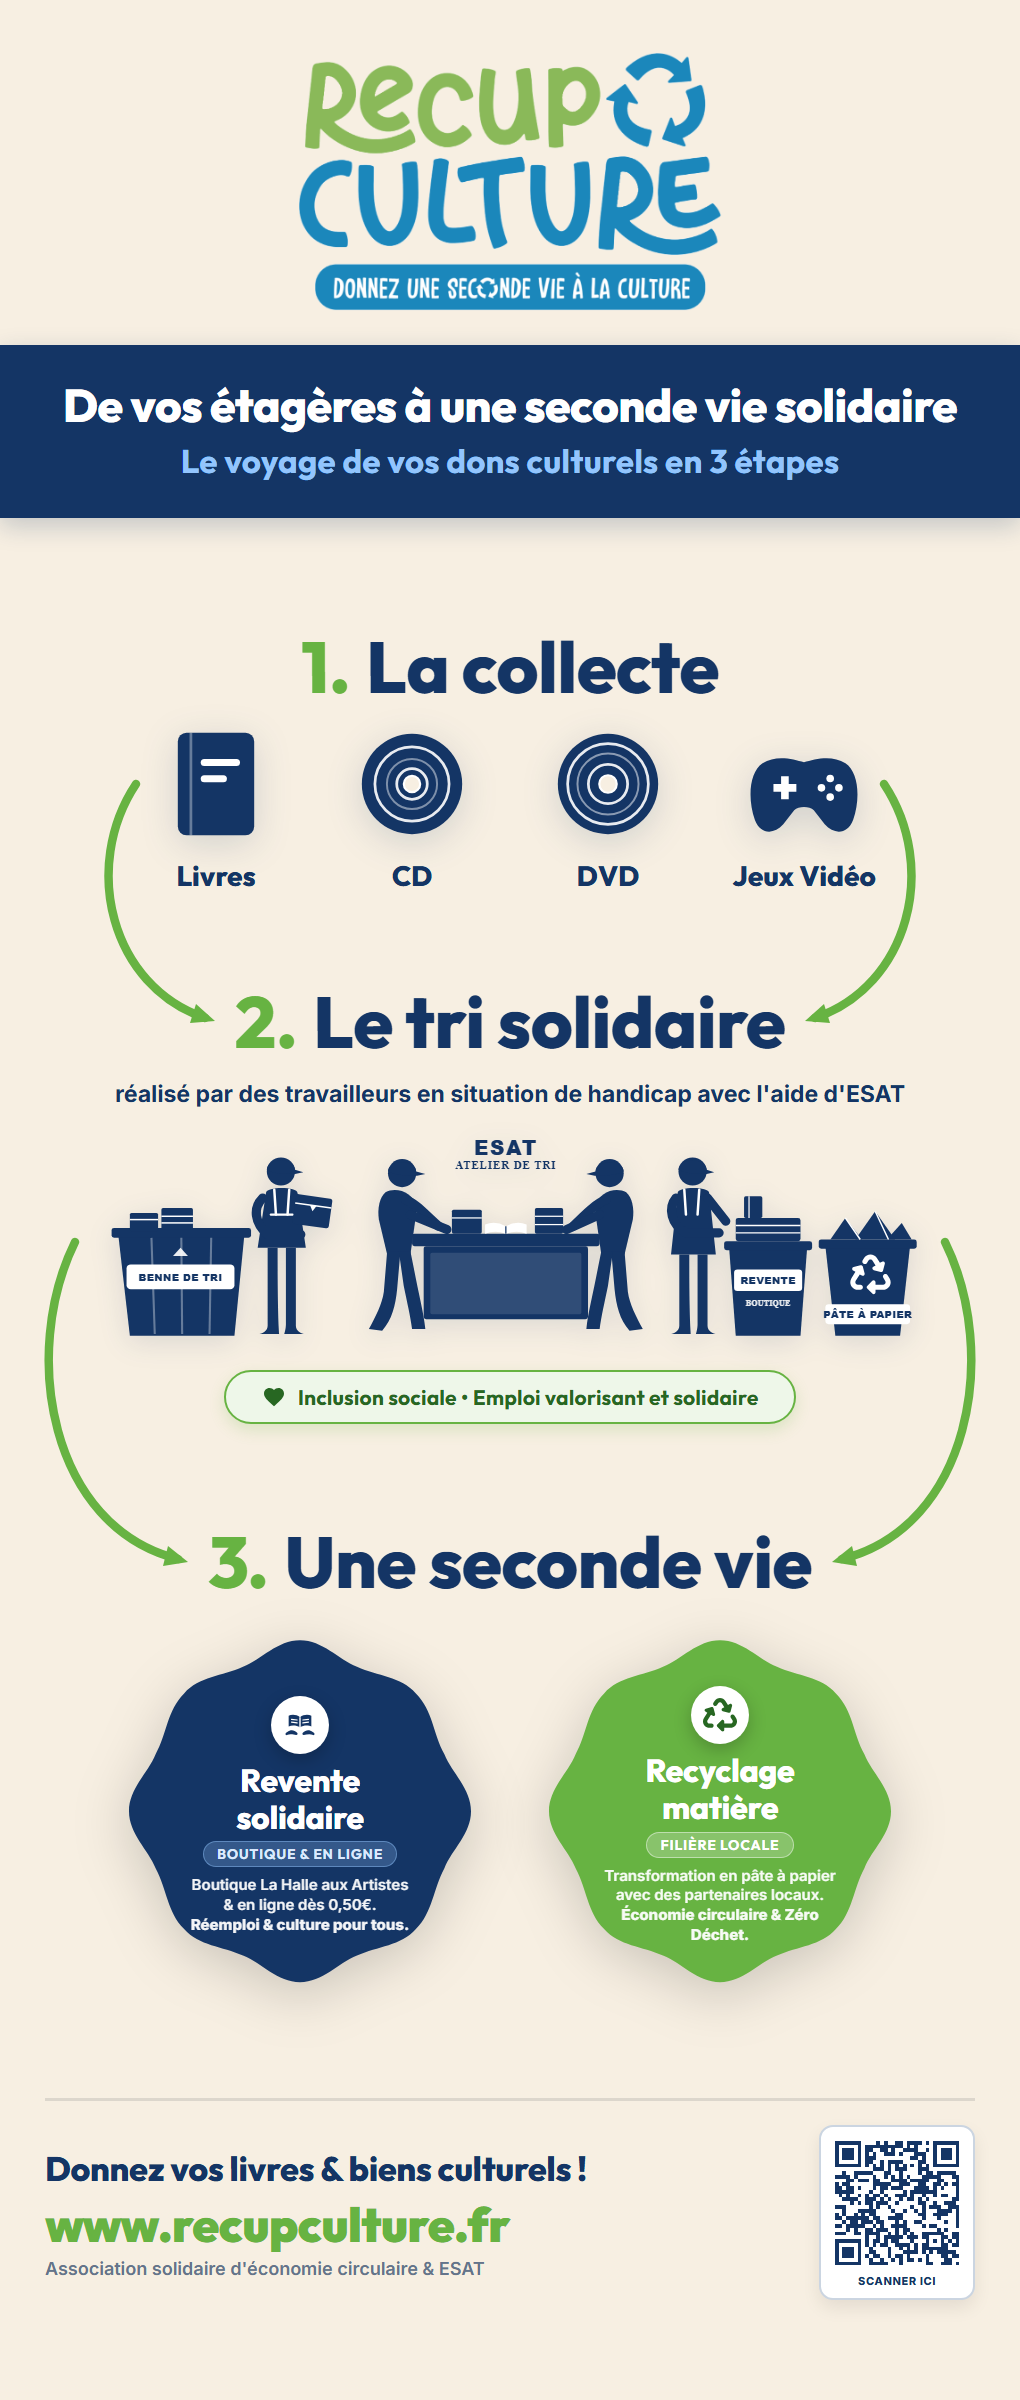
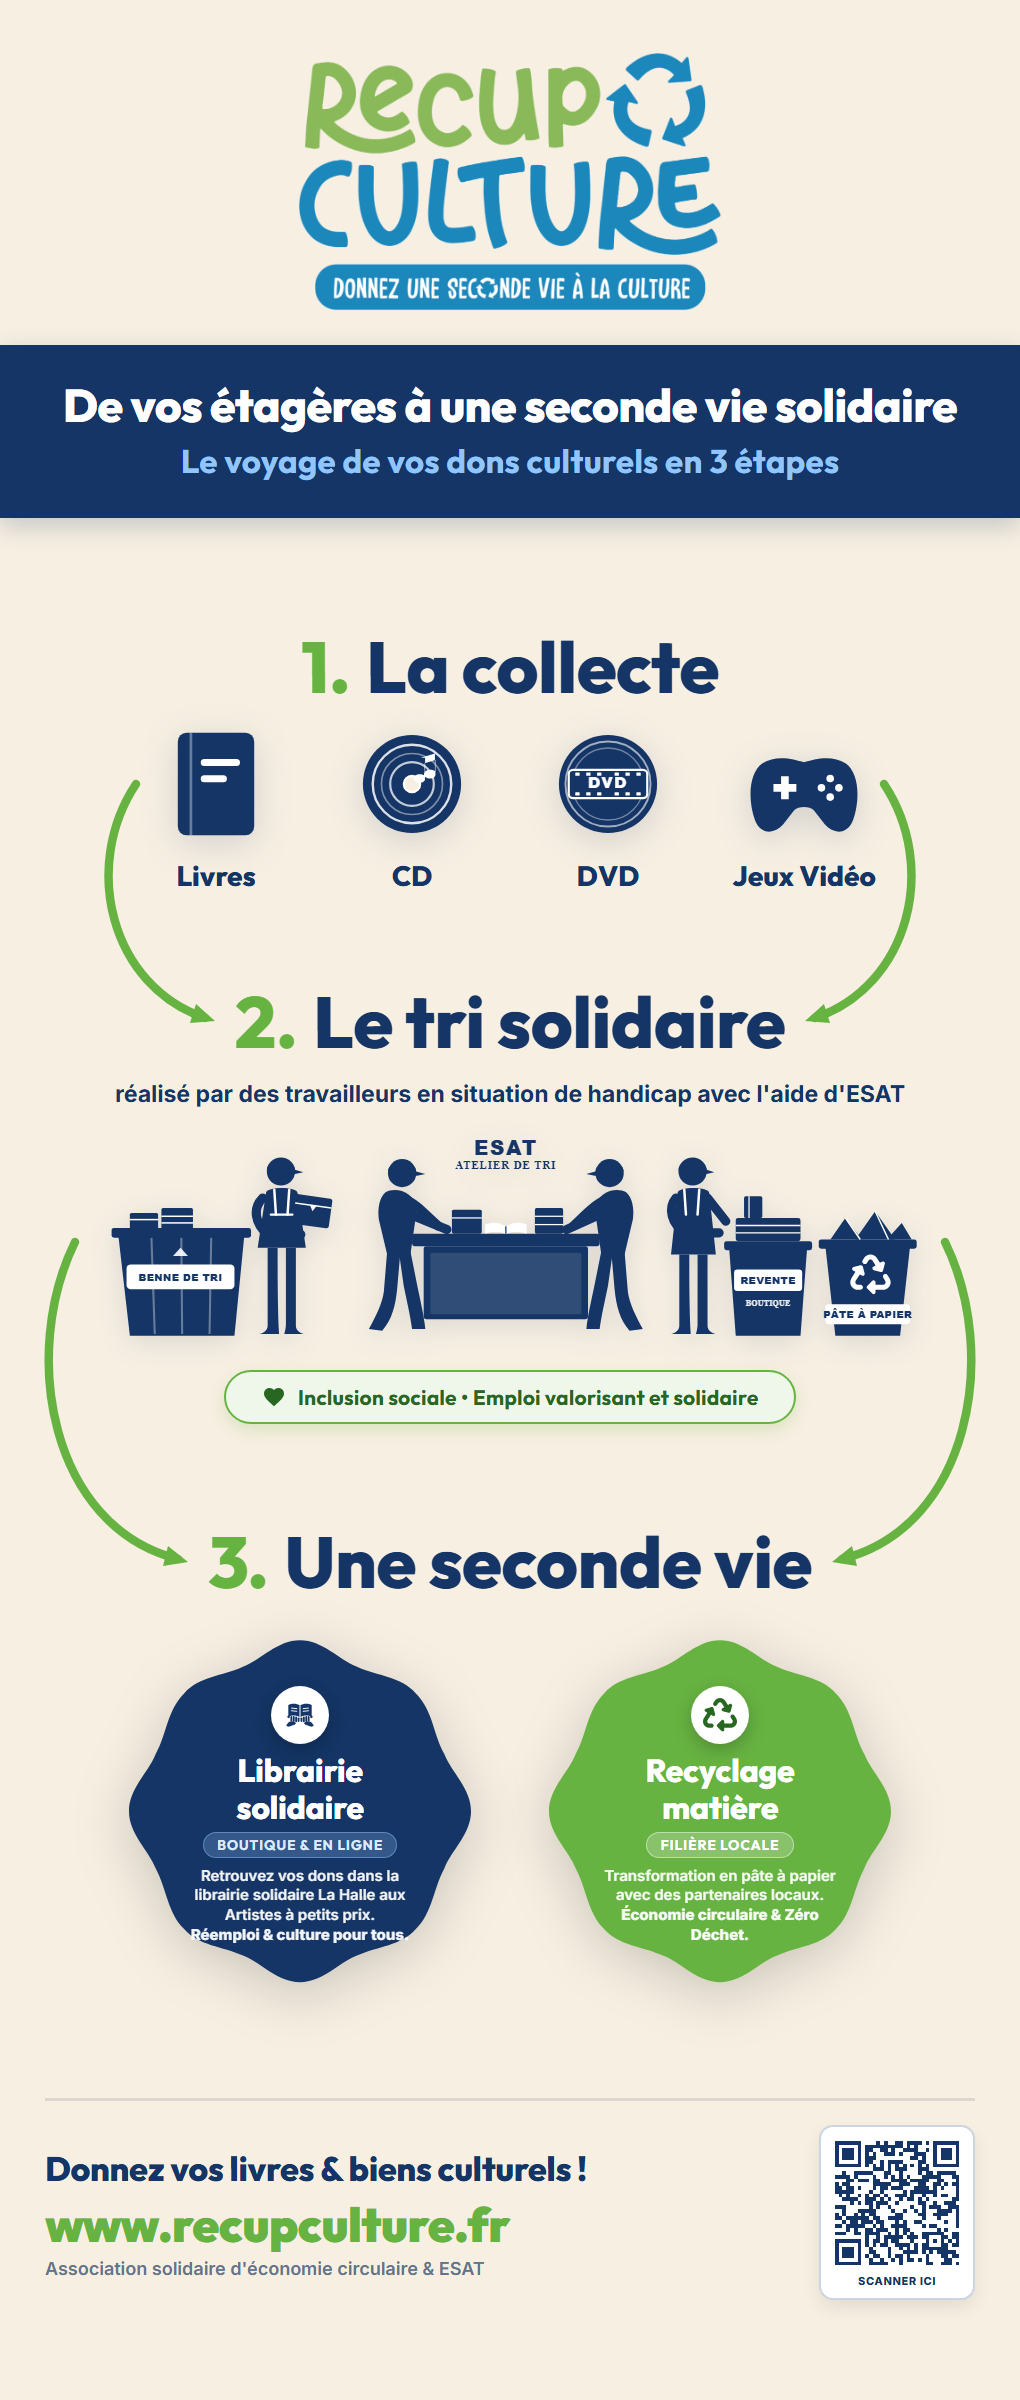
feat(kakemono): differenciation CD/DVD et mise a jour de la Librairie solidaire (titre, texte et icone mains+livre)

Changed region(s): [[0.1824, 0.6875, 0.3951, 0.8125], [0.5471, 0.2812, 0.6382, 0.3438], [0.3647, 0.3125, 0.4559, 0.3438]]

diff --git a/communication/kakemono/kakemono-1-art.html b/communication/kakemono/kakemono-1-art.html
@@ -473,31 +473,51 @@
           <span>Livres</span>
         </div>
 
-        <!-- 2. CD -->
+        <!-- 2. CD (Audio) -->
         <div class="collect-item">
           <div class="collect-icon">
             <svg viewBox="0 0 100 110">
-              <!-- Disque CD bleu marine #143565 avec sillons concentriques blancs -->
-              <circle cx="50" cy="55" r="46" fill="#143565"/>
-              <circle cx="50" cy="55" r="34" fill="none" stroke="#ffffff" stroke-width="2.5" opacity="0.9"/>
-              <circle cx="50" cy="55" r="23" fill="none" stroke="#ffffff" stroke-width="1.8" opacity="0.45"/>
-              <circle cx="50" cy="55" r="14" fill="none" stroke="#ffffff" stroke-width="2.5" opacity="0.9"/>
+              <!-- Disque CD audio bleu marine #143565 -->
+              <circle cx="50" cy="55" r="45" fill="#143565"/>
+              <!-- Sillons audio fins -->
+              <circle cx="50" cy="55" r="36" fill="none" stroke="#ffffff" stroke-width="2.2" opacity="0.85"/>
+              <circle cx="50" cy="55" r="28" fill="none" stroke="#ffffff" stroke-width="1.5" opacity="0.45"/>
+              <circle cx="50" cy="55" r="20" fill="none" stroke="#ffffff" stroke-width="2" opacity="0.75"/>
+              <!-- Trou central -->
               <circle cx="50" cy="55" r="7.5" fill="#f7efe2" stroke="#ffffff" stroke-width="2"/>
+              <!-- Note de musique audio blanche -->
+              <path d="M 58 31 L 71 27 L 71 43 C 69.8 42.4 68.2 42 66.5 42 C 63.5 42 61 43.8 61 46 C 61 48.2 63.5 50 66.5 50 C 69.3 50 71.5 48.4 71.5 46.2 L 71.5 33 L 61.5 36 L 61.5 47 C 60.3 46.4 58.7 46 57 46 C 54 46 51.5 47.8 51.5 50 C 51.5 52.2 54 54 57 54 C 59.8 54 62 52.4 62 50.2 L 62 31 Z" fill="#ffffff"/>
             </svg>
           </div>
           <span>CD</span>
         </div>
 
-        <!-- 3. DVD -->
+        <!-- 3. DVD (Vidéo) -->
         <div class="collect-item">
           <div class="collect-icon">
             <svg viewBox="0 0 100 110">
-              <!-- Disque DVD bleu marine #143565 avec sillons vidéo blancs -->
-              <circle cx="50" cy="55" r="46" fill="#143565"/>
-              <circle cx="50" cy="55" r="37" fill="none" stroke="#ffffff" stroke-width="2.5" opacity="0.9"/>
-              <circle cx="50" cy="55" r="28" fill="none" stroke="#ffffff" stroke-width="1.8" opacity="0.5"/>
-              <circle cx="50" cy="55" r="18" fill="none" stroke="#ffffff" stroke-width="2.5" opacity="0.9"/>
-              <circle cx="50" cy="55" r="8" fill="#f7efe2" stroke="#ffffff" stroke-width="2"/>
+              <!-- Disque DVD vidéo bleu marine #143565 -->
+              <circle cx="50" cy="55" r="45" fill="#143565"/>
+              <circle cx="50" cy="55" r="39" fill="none" stroke="#ffffff" stroke-width="1.8" opacity="0.6"/>
+              <circle cx="50" cy="55" r="33" fill="none" stroke="#ffffff" stroke-width="1.2" opacity="0.4"/>
+              <!-- Bandeau pellicule cinéma au centre -->
+              <rect x="14" y="42" width="72" height="26" rx="4" fill="#143565" stroke="#ffffff" stroke-width="2"/>
+              <!-- Perforations pellicule cinéma haut -->
+              <rect x="20" y="44.5" width="4" height="3" rx="0.5" fill="#ffffff"/>
+              <rect x="30" y="44.5" width="4" height="3" rx="0.5" fill="#ffffff"/>
+              <rect x="40" y="44.5" width="4" height="3" rx="0.5" fill="#ffffff"/>
+              <rect x="56" y="44.5" width="4" height="3" rx="0.5" fill="#ffffff"/>
+              <rect x="66" y="44.5" width="4" height="3" rx="0.5" fill="#ffffff"/>
+              <rect x="76" y="44.5" width="4" height="3" rx="0.5" fill="#ffffff"/>
+              <!-- Perforations pellicule cinéma bas -->
+              <rect x="20" y="62.5" width="4" height="3" rx="0.5" fill="#ffffff"/>
+              <rect x="30" y="62.5" width="4" height="3" rx="0.5" fill="#ffffff"/>
+              <rect x="40" y="62.5" width="4" height="3" rx="0.5" fill="#ffffff"/>
+              <rect x="56" y="62.5" width="4" height="3" rx="0.5" fill="#ffffff"/>
+              <rect x="66" y="62.5" width="4" height="3" rx="0.5" fill="#ffffff"/>
+              <rect x="76" y="62.5" width="4" height="3" rx="0.5" fill="#ffffff"/>
+              <!-- Lettrage "DVD" majuscule gras blanc bien visible -->
+              <text x="50" y="59" text-anchor="middle" font-family="'Outfit', sans-serif" font-size="14" font-weight="900" fill="#ffffff" letter-spacing="1.5px">DVD</text>
             </svg>
           </div>
           <span>DVD</span>
@@ -547,33 +567,43 @@
       <h3 class="step-title"><span class="num-badge">3.</span> Une seconde vie</h3>
 
       <div class="macarons-row">
-        <!-- Macaron 1 (Gauche) : Revente Solidaire -->
+        <!-- Macaron 1 (Gauche) : Librairie Solidaire -->
         <div class="macaron-card">
           <svg class="macaron-bg" viewBox="0 0 200 200">
             <path d="M 100 8 C 112 8, 120 18, 130 22 C 141 27, 153 27, 161 36 C 170 45, 170 57, 176 68 C 180 78, 190 86, 190 98 C 190 110, 180 118, 176 128 C 170 139, 170 151, 161 160 C 153 169, 141 169, 130 174 C 120 178, 112 188, 100 188 C 88 188, 80 178, 70 174 C 59 169, 47 169, 39 160 C 30 151, 30 139, 24 128 C 20 118, 10 110, 10 98 C 10 86, 20 78, 24 68 C 30 57, 30 45, 39 36 C 47 27, 59 27, 70 22 C 80 18, 88 8, 100 8 Z" fill="#143565" />
           </svg>
           <div class="macaron-content">
             <div class="macaron-icon-wrap">
-              <!-- Option 4 : Deux mains ouvertes transmettant / soutenant un livre -->
-              <svg viewBox="0 0 48 48">
-                <!-- Livre ouvert stylisé au centre -->
-                <path d="M 24 13 C 19 9, 12 9, 8 11 L 8 26 C 12 24, 19 24, 24 27 C 29 24, 36 24, 40 26 L 40 11 C 36 9, 29 9, 24 13 Z" fill="#143565"/>
-                <line x1="24" y1="13" x2="24" y2="27" stroke="#ffffff" stroke-width="2"/>
-                <!-- Pages / lignes blanches -->
-                <line x1="12" y1="16" x2="20" y2="17" stroke="#ffffff" stroke-width="1.6" stroke-linecap="round"/>
-                <line x1="12" y1="20" x2="20" y2="21" stroke="#ffffff" stroke-width="1.6" stroke-linecap="round"/>
-                <line x1="28" y1="17" x2="36" y2="16" stroke="#ffffff" stroke-width="1.6" stroke-linecap="round"/>
-                <line x1="28" y1="21" x2="36" y2="20" stroke="#ffffff" stroke-width="1.6" stroke-linecap="round"/>
-                <!-- Mains ouvertes en coupe en dessous -->
-                <path d="M 6 34 C 11 30, 16 31, 20 35 C 21.2 36.2, 20.5 38.5, 18.5 38.2 C 15 37.8, 10.5 36.2, 5.5 38.2 C 4 38.8, 3 37.2, 3.8 35.8 C 4.5 34.8, 5.2 34.4, 6 34 Z" fill="#143565"/>
-                <path d="M 42 34 C 37 30, 32 31, 28 35 C 26.8 36.2, 27.5 38.5, 29.5 38.2 C 33 37.8, 37.5 36.2, 42.5 38.2 C 44 38.8, 45 37.2, 44.2 35.8 C 43.5 34.8, 42.8 34.4, 42 34 Z" fill="#143565"/>
+              <!-- Deux mains bien identifiables tenant un livre ouvert -->
+              <svg viewBox="0 0 64 64">
+                <!-- Livre ouvert central -->
+                <path d="M 32 14 C 26 10, 16 10, 10 13 L 10 35 C 16 32, 26 32, 32 36 C 38 32, 48 32, 54 35 L 54 13 C 48 10, 38 10, 32 14 Z" fill="#143565"/>
+                <line x1="32" y1="14" x2="32" y2="36" stroke="#ffffff" stroke-width="2"/>
+                <!-- Pages intérieures -->
+                <line x1="16" y1="19" x2="26" y2="20" stroke="#ffffff" stroke-width="1.8" stroke-linecap="round"/>
+                <line x1="16" y1="24" x2="26" y2="25" stroke="#ffffff" stroke-width="1.8" stroke-linecap="round"/>
+                <line x1="38" y1="20" x2="48" y2="19" stroke="#ffffff" stroke-width="1.8" stroke-linecap="round"/>
+                <line x1="38" y1="25" x2="48" y2="24" stroke="#ffffff" stroke-width="1.8" stroke-linecap="round"/>
+                <!-- Main Gauche (paume et doigts bien visibles sous le livre) -->
+                <path d="M 6 52 C 10 44, 15 42, 22 45 C 24 45.8, 25 47.5, 23.5 49 C 21.5 50.8, 17 52, 10 54 Z" fill="#143565"/>
+                <rect x="14" y="34" width="3.5" height="10" rx="1.75" fill="#143565"/>
+                <rect x="18.5" y="34" width="3.5" height="11" rx="1.75" fill="#143565"/>
+                <rect x="23" y="35" width="3.5" height="10.5" rx="1.75" fill="#143565"/>
+                <rect x="27.5" y="36.5" width="3.5" height="8.5" rx="1.75" fill="#143565"/>
+                <path d="M 8 36 C 8 33, 11 32, 12.5 34 C 13.5 35.5, 13 37.5, 11 38 Z" fill="#143565"/>
+                <!-- Main Droite (symétrique avec doigts bien visibles) -->
+                <path d="M 58 52 C 54 44, 49 42, 42 45 C 40 45.8, 39 47.5, 40.5 49 C 42.5 50.8, 47 52, 54 54 Z" fill="#143565"/>
+                <rect x="46.5" y="34" width="3.5" height="10" rx="1.75" fill="#143565"/>
+                <rect x="42" y="34" width="3.5" height="11" rx="1.75" fill="#143565"/>
+                <rect x="37.5" y="35" width="3.5" height="10.5" rx="1.75" fill="#143565"/>
+                <rect x="33" y="36.5" width="3.5" height="8.5" rx="1.75" fill="#143565"/>
+                <path d="M 56 36 C 56 33, 53 32, 51.5 34 C 50.5 35.5, 51 37.5, 53 38 Z" fill="#143565"/>
               </svg>
             </div>
-            <span class="macaron-title">Revente<br>solidaire</span>
+            <span class="macaron-title">Librairie<br>solidaire</span>
             <span class="macaron-tag macaron-tag-blue">Boutique &amp; En ligne</span>
             <p class="macaron-detail">
-              Boutique La Halle aux Artistes<br>
-              &amp; en ligne dès 0,50€.<br>
+              Retrouvez vos dons dans la librairie solidaire La Halle aux Artistes à petits prix.<br>
               <strong>Réemploi &amp; culture pour tous.</strong>
             </p>
           </div>
